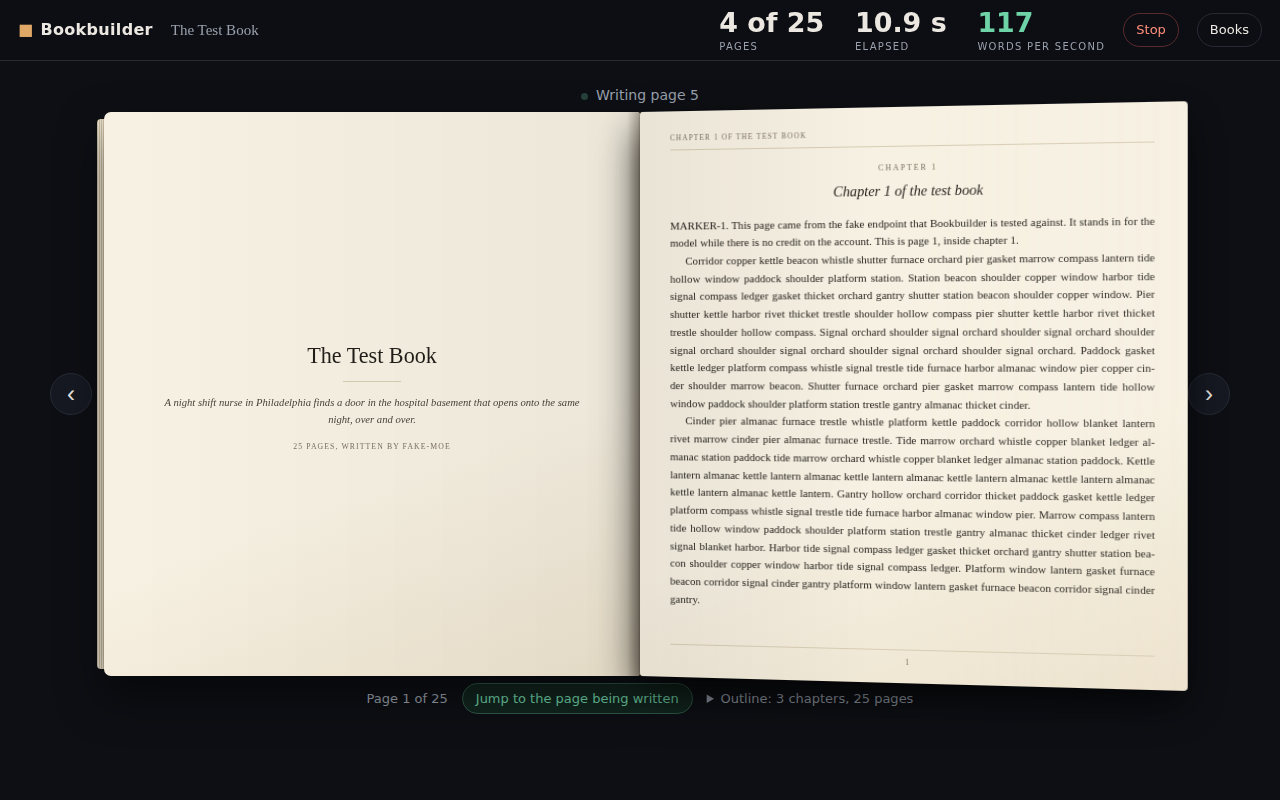
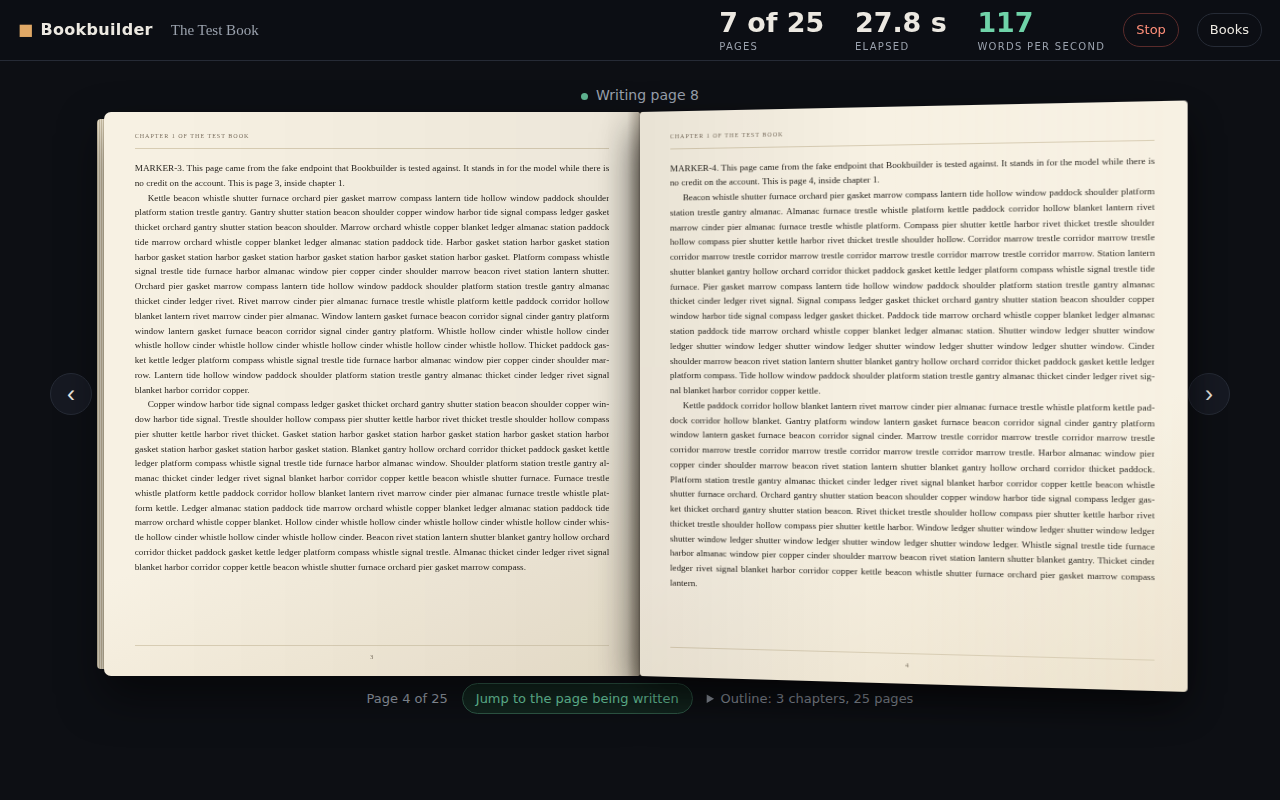
Bookbuilder: fit every page, rate from the first word, shorter pages, no cache on the shell

diff --git a/demos/bookbuilder/app/static/app.js b/demos/bookbuilder/app/static/app.js
@@ -20,8 +20,8 @@ const nextButton = el("next");
 const toLive = el("toLive");
 const whereLabel = el("whereLabel");
 
-// Every step the page text shrinks by when a page holds more words than the paper.
-const FITS = [1, 0.94, 0.88, 0.82, 0.78, 0.74, 0.7, 0.66];
+// The smallest the page type may get before the paper is simply too small for the words.
+const FIT_FLOOR = 0.42;
 
 const state = {
   title: "",
@@ -42,6 +42,7 @@ window.bookbuilder = state;
 let source = null;
 let runId = null;
 let startedAt = 0;
+let penAt = 0; // when the first token of the book arrived. 0 while the model is waking
 let ticker = null;
 let doneWords = 0;
 let liveWords = 0;
@@ -53,10 +54,24 @@ let frame = 0;
 
 // ---------------------------------------------------------------- the header
 
+// A cold endpoint can take minutes to answer. Until the first token there is nothing
+// being written, and these two messages would read as if there were. Anything else the
+// run has to say, a retry or a stop, is shown as it was sent.
+const ROUTINE = /^(Planning the chapters|Writing page \d+)$/;
+let statusText = "";
+let statusStill = false;
+
 function setStatus(text, still) {
+  statusText = text || "";
+  statusStill = Boolean(still);
+  renderStatus();
+}
+
+function renderStatus() {
+  const text = !penAt && ROUTINE.test(statusText) ? "Waking the model" : statusText;
   statusLine.hidden = !text;
-  statusLine.textContent = text || "";
-  statusLine.classList.toggle("still", Boolean(still));
+  statusLine.textContent = text;
+  statusLine.classList.toggle("still", statusStill);
 }
 
 function showError(message, raw) {
@@ -82,10 +97,13 @@ function countWords(text) {
 }
 
 function paintStats() {
-  const seconds = (performance.now() - startedAt) / 1000;
-  el("statTime").textContent = seconds.toFixed(1) + " s";
+  const now = performance.now();
+  el("statTime").textContent = ((now - startedAt) / 1000).toFixed(1) + " s";
   const words = doneWords + liveWords;
-  const rate = seconds > 0.2 ? words / seconds : 0;
+  // Words per second is the writing speed, so its clock starts at the first token. A two
+  // minute wake belongs in the elapsed time, not in the rate.
+  const writing = penAt ? (now - penAt) / 1000 : 0;
+  const rate = writing > 0.2 ? words / writing : 0;
   el("statRate").textContent = rate.toFixed(0);
 }
 
@@ -182,23 +200,45 @@ function paint(container, index) {
   container.classList.toggle("empty", !paper);
   if (paper) {
     container.appendChild(paper);
-    fitPaper(paper);
+    refit();
   }
 }
 
-// Shrink the type a step at a time until the page holds its own text. The step is set on
-// the whole book, because two facing pages printed at different sizes do not read as one
-// book. It only ever goes down, so the type never jumps about while a page is written.
-let fitStep = 0;
+// A printed page never clips, so the type is sized to the longest page the book has.
+// The size is set on the whole book, because two facing pages printed at different sizes
+// do not read as one book, and it only ever goes down within a run.
+let fit = 1;
 
-function fitPaper(paper) {
+function setFit(value) {
+  fit = Math.max(FIT_FLOOR, Math.min(1, value));
+  book.style.setProperty("--fit", String(fit));
+}
+
+// How much taller than its paper a page's text is. 1 or less means it fits.
+function spill(paper) {
   const text = paper.querySelector(".text");
-  if (!text) return;
-  while (fitStep < FITS.length - 1 && text.scrollHeight > text.clientHeight + 1) {
-    fitStep += 1;
-    book.style.setProperty("--fit", String(FITS[fitStep]));
+  if (!text || !text.clientHeight) return 1;
+  return text.scrollHeight / text.clientHeight;
+}
+
+function papersOnShow() {
+  return [leafLeft, leafRight]
+    .map((leaf) => leaf.querySelector(".paper"))
+    .filter((paper) => paper && paper.offsetParent !== null);
+}
+
+// Halving the type quarters the height it needs, because the lines get shorter and more
+// words fit on each one, so one square root lands within a percent and the loop is a
+// safety net rather than a search.
+function refit() {
+  for (let pass = 0; pass < 6; pass += 1) {
+    const worst = papersOnShow().reduce((most, paper) => Math.max(most, spill(paper)), 1);
+    if (worst <= 1.002) break;
+    const next = fit * Math.sqrt(1 / worst) * 0.995;
+    if (next >= fit - 0.0005) break;
+    setFit(next);
   }
-  paper.classList.toggle("more", text.scrollHeight > text.clientHeight + 1);
+  papersOnShow().forEach((paper) => paper.classList.toggle("more", spill(paper) > 1.002));
 }
 
 // ------------------------------------------------------- writing on the page
@@ -263,7 +303,11 @@ function flush() {
   pending = "";
   if (!chunk || !writer.node) return;
   ink(chunk);
-  fitPaper(writer.paper);
+  // The page being written is measured too, so the type settles into the size the book
+  // needs instead of the page hiding its first lines behind a scroll. Once the type is as
+  // small as it may get, the page scrolls to keep the pen in view, and it is measured
+  // again the moment it is finished.
+  refit();
   scrollToPen();
 }
 
@@ -413,10 +457,10 @@ async function build(event) {
   state.finished = false;
   doneWords = 0;
   liveWords = 0;
-  fitStep = 0;
-  book.style.setProperty("--fit", "1");
+  penAt = 0;
+  setFit(1);
   unmount();
-  setStatus("Asking the model for an outline");
+  setStatus("Waking the model");
 
   let payload;
   try {
@@ -517,6 +561,10 @@ function listen() {
     const data = JSON.parse(event.data);
     const page = state.pages.get(data.index);
     if (!page) return;
+    if (!penAt) {
+      penAt = performance.now();
+      renderStatus();
+    }
     page.text += data.text;
     page.words += countWords(data.text);
     if (data.index === state.live) liveWords = page.words;
@@ -535,8 +583,10 @@ function listen() {
     if (data.index === writer.mounted) {
       flush();
       unmount();
-      if (page) paint(leafRight, data.index);
     }
+    // A finished page is drawn again from its first line and measured, so the type comes
+    // down to the size that holds the longest page in the book and nothing stays hidden.
+    if (page && state.view === data.index) paint(leafRight, data.index);
     doneWords = data.total_words;
     liveWords = 0;
     el("statPages").textContent = data.index + " of " + data.total;
@@ -592,9 +642,8 @@ function listen() {
     finishBox.hidden = false;
     finishBox.textContent = "";
     const heading = document.createElement("h2");
-    heading.textContent = data.stopped
-      ? "Stopped after " + data.pages + " pages"
-      : "Done. " + data.pages + " pages.";
+    const pages = data.pages + (data.pages === 1 ? " page" : " pages");
+    heading.textContent = data.stopped ? "Stopped after " + pages : "Done. " + pages + ".";
     finishBox.appendChild(heading);
     const facts = document.createElement("p");
     facts.className = "facts";
@@ -676,6 +725,19 @@ document.addEventListener("keydown", (event) => {
     event.preventDefault();
     step(1);
   }
+});
+
+// A window that changes size changes the paper, so the pages are measured again.
+let resizeTimer = 0;
+window.addEventListener("resize", () => {
+  if (desk.hidden) return;
+  window.clearTimeout(resizeTimer);
+  resizeTimer = window.setTimeout(() => {
+    setFit(1);
+    paint(leafLeft, state.view - 1);
+    paint(leafRight, state.view);
+    afterView();
+  }, 150);
 });
 
 let touchX = 0;

diff --git a/demos/bookbuilder/app/static/index.html b/demos/bookbuilder/app/static/index.html
@@ -4,7 +4,7 @@
 <meta charset="utf-8">
 <meta name="viewport" content="width=device-width, initial-scale=1">
 <title>Bookbuilder</title>
-<link rel="stylesheet" href="/static/style.css?v=2">
+<link rel="stylesheet" href="/static/style.css?v=4">
 </head>
 <body>
 <header class="bar" id="bar">
@@ -71,6 +71,6 @@
   <section class="finish" id="finish" hidden></section>
 </main>
 
-<script src="/static/app.js?v=2"></script>
+<script src="/static/app.js?v=4"></script>
 </body>
 </html>

diff --git a/demos/bookbuilder/app/main.py b/demos/bookbuilder/app/main.py
@@ -54,7 +54,8 @@ app.mount("/static", StaticFiles(directory=STATIC_DIR), name="static")
 
 @app.get("/", response_class=FileResponse)
 async def home() -> FileResponse:
-    return FileResponse(STATIC_DIR / "index.html", media_type="text/html")
+    # No caching on the shell, so a redeploy is picked up on the next visit.
+    return FileResponse(STATIC_DIR / "index.html", media_type="text/html", headers={"Cache-Control": "no-cache"})
 
 
 @app.get("/health")

diff --git a/demos/bookbuilder/app/pages.py b/demos/bookbuilder/app/pages.py
@@ -2,8 +2,8 @@
 
 from .outline import Chapter, Outline
 
-WORDS_LOW = 280
-WORDS_HIGH = 320
+WORDS_LOW = 220
+WORDS_HIGH = 260
 # A page is about 400 tokens of prose. The budget is far above that because a reasoning
 # model spends tokens thinking before it writes, and a page that runs out of budget
 # mid sentence is worse than one that finishes early.
